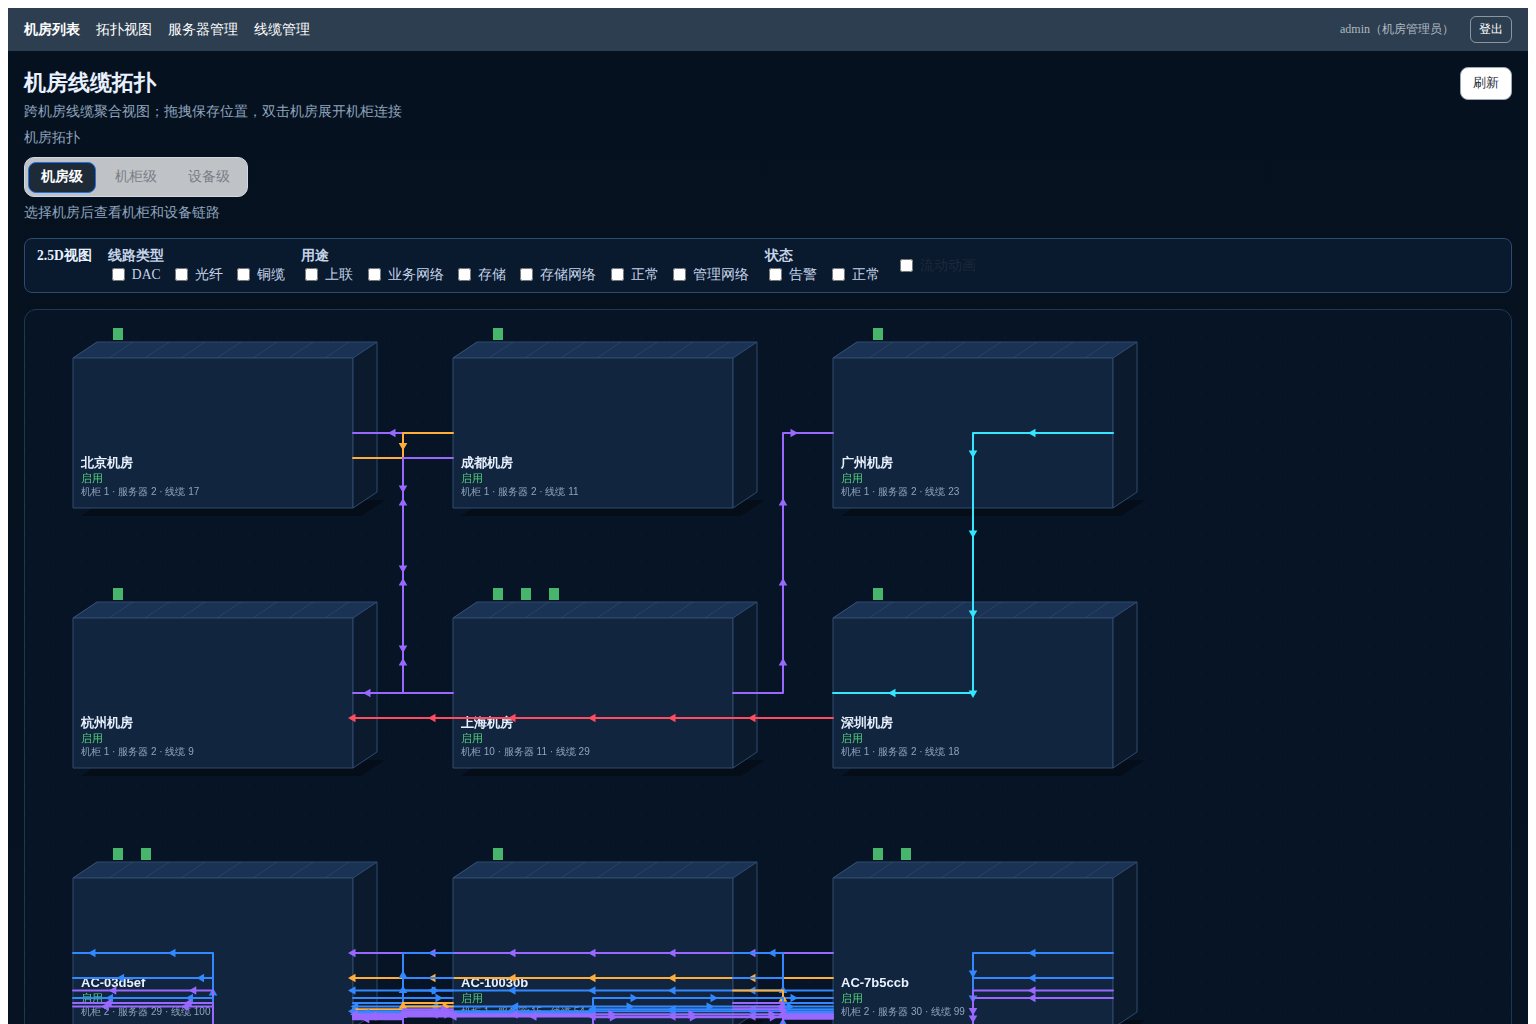
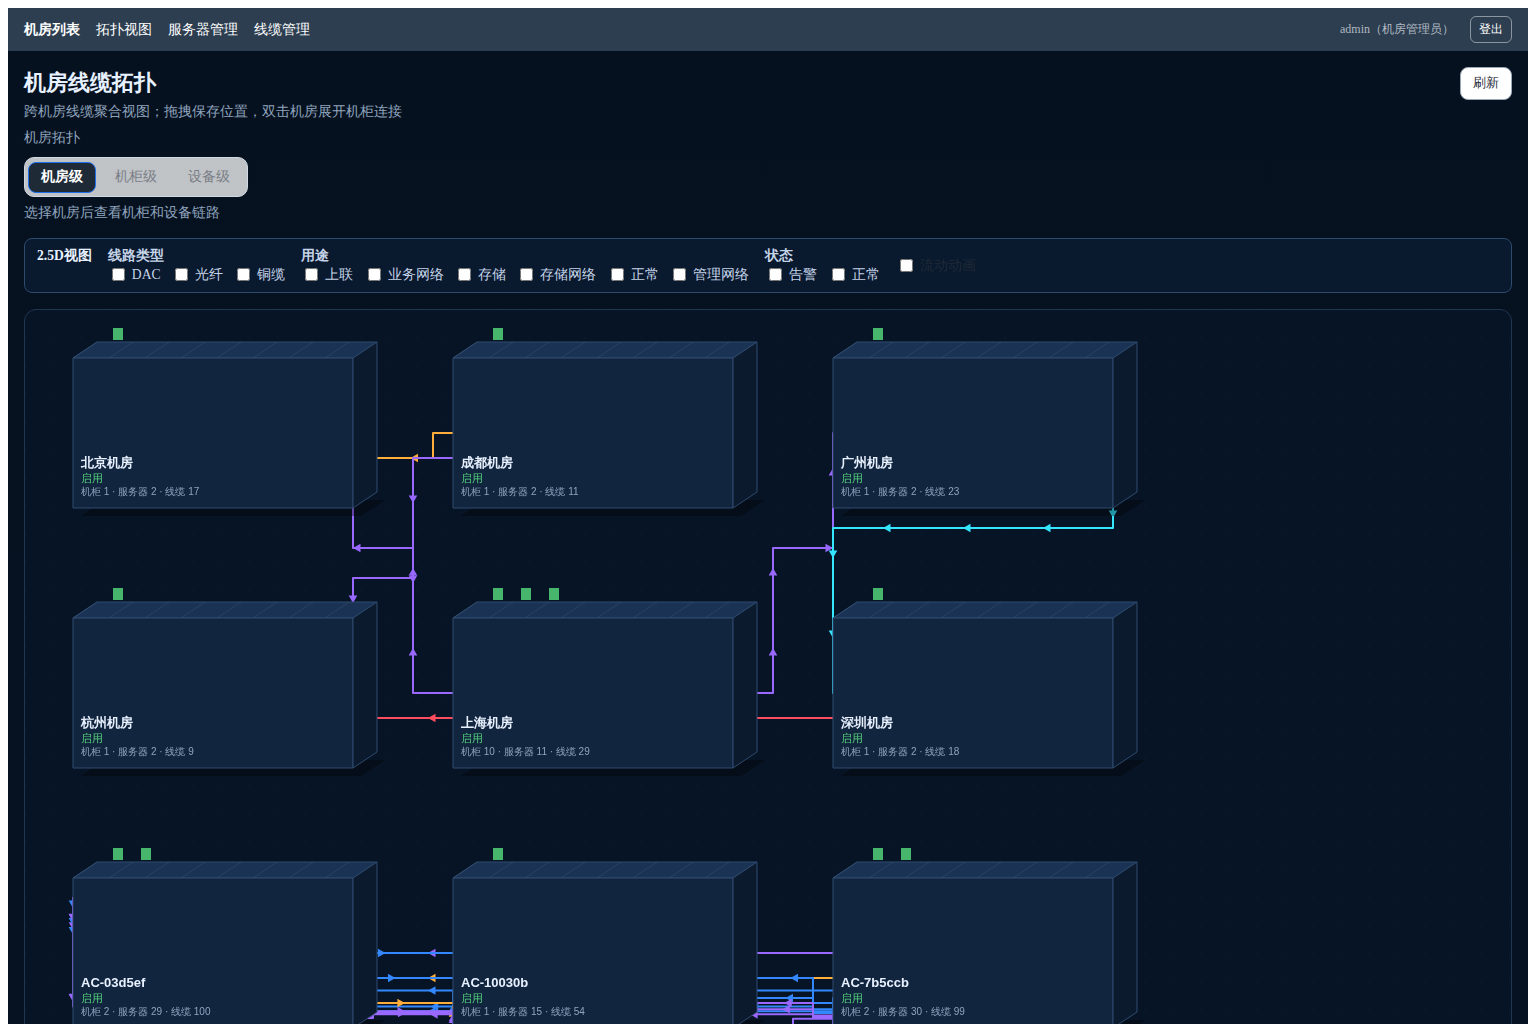
fix: cable routing through gaps between rooms — corridor-based routing
- routeRoomCable now takes srcPos/tgtPos to compute corridor positions
- Cables route through gaps between rooms (not over room bodies)
- Horizontal neighbors: route through vertical gap between columns
- Vertical neighbors: route through horizontal gap between rows
- Diagonal: route through nearest corridor then cross
- Draw order: cables behind rooms (visible only in gaps)

diff --git a/src/frontend/src/views/TopologyView.vue b/src/frontend/src/views/TopologyView.vue
@@ -1556,52 +1556,10 @@ function drawScene(): void {
   if (current.mode === 'rooms') {
     const positions = autoLayoutRooms(current.rooms)
 
-    // 1. Draw rooms FIRST (bottom layer)
-    for (const room of current.rooms) {
-      const pos = positions.get(room.id) ?? { x: room.topologyX, y: room.topologyY }
-      const selected = focusedRoomId.value === room.id
-      const group = new Konva.Group({
-        x: pos.x,
-        y: pos.y,
-        draggable: isRoomAdmin.value,
-        id: `room-${room.id}`,
-      })
-
-      drawRoomPlatform(group, room, selected)
-
-      group.on('click', () => {
-        focusedRoomId.value = room.id
-        router.replace({ query: { ...route.query, roomId: room.id, view: 'rooms' } })
-        drawScene()
-      })
-      group.on('dragend', async () => {
-        const nextX = group.x()
-        const nextY = group.y()
-        room.topologyX = nextX
-        room.topologyY = nextY
-        drawScene()
-        if (!isRoomAdmin.value) return
-        const token = await fetchCsrf()
-        if (!token) {
-          error.value = saveError.value || '保存失败'
-          return
-        }
-        const result = await saveRoomPosition(room, nextX, nextY, token)
-        if (!result.ok) {
-          error.value = result.error
-        }
-      })
-      group.on('dblclick', async () => {
-        focusedRoomId.value = room.id
-        await navigateToView(room.id, 'devices')
-      })
-      layer!.add(group)
-    }
-
-    // 2. Draw cables SECOND (on top of rooms)
     const edgeSlots = new Map<string, number>()
     const slotKey = (roomId: string, edge: string) => `${roomId}|${edge}`
 
+    // 1. Draw cables FIRST (bottom layer) — routed through gaps between rooms
     for (const connection of filteredRoomConnections.value) {
       const srcPos = positions.get(connection.sourceRoomId) ?? { x: 0, y: 0 }
       const tgtPos = positions.get(connection.targetRoomId) ?? { x: 0, y: 0 }
@@ -1616,7 +1574,7 @@ function drawScene(): void {
 
       const from = roomPlatformEdgePoint(srcPos, srcEdge as 'left' | 'right', srcSlot, srcSlot + 1)
       const to = roomPlatformEdgePoint(tgtPos, tgtEdge as 'left' | 'right', tgtSlot, tgtSlot + 1)
-      const route = routeRoomCable(from, to)
+      const route = routeRoomCable(from, to, srcPos, tgtPos)
       const flatPoints = route.flatMap((p) => [p.x, p.y])
       const bundleId = connectionBundleId(connection)
       const color = purposeLineColor(connection.purpose, connection.status, connection.cableType)
@@ -1680,6 +1638,48 @@ function drawScene(): void {
         document.body.style.cursor = 'default'
       })
       layer!.add(line)
+    }
+
+    // 2. Draw rooms SECOND (on top of cables — cables only visible in gaps)
+    for (const room of current.rooms) {
+      const pos = positions.get(room.id) ?? { x: room.topologyX, y: room.topologyY }
+      const selected = focusedRoomId.value === room.id
+      const group = new Konva.Group({
+        x: pos.x,
+        y: pos.y,
+        draggable: isRoomAdmin.value,
+        id: `room-${room.id}`,
+      })
+
+      drawRoomPlatform(group, room, selected)
+
+      group.on('click', () => {
+        focusedRoomId.value = room.id
+        router.replace({ query: { ...route.query, roomId: room.id, view: 'rooms' } })
+        drawScene()
+      })
+      group.on('dragend', async () => {
+        const nextX = group.x()
+        const nextY = group.y()
+        room.topologyX = nextX
+        room.topologyY = nextY
+        drawScene()
+        if (!isRoomAdmin.value) return
+        const token = await fetchCsrf()
+        if (!token) {
+          error.value = saveError.value || '保存失败'
+          return
+        }
+        const result = await saveRoomPosition(room, nextX, nextY, token)
+        if (!result.ok) {
+          error.value = result.error
+        }
+      })
+      group.on('dblclick', async () => {
+        focusedRoomId.value = room.id
+        await navigateToView(room.id, 'devices')
+      })
+      layer!.add(group)
     }
 
     stage!.on('click', (event) => {

diff --git a/src/frontend/src/composables/useTopology.ts b/src/frontend/src/composables/useTopology.ts
@@ -360,10 +360,83 @@ export function roomPlatformEdgePoint(
   }
 }
 
-/** Orthogonal/bezier-friendly route between room platform edges. */
-export function routeRoomCable(from: Point2D, to: Point2D): Point2D[] {
-  const midX = (from.x + to.x) / 2
-  return [from, { x: midX, y: from.y }, { x: midX, y: to.y }, to]
+/**
+ * Route a cable between two room platform edge points through the corridor
+ * BETWEEN rooms, avoiding the room bodies. Routes travel in the gaps.
+ *
+ * @param from   Start point on source room edge
+ * @param to     End point on target room edge
+ * @param srcPos Top-left corner of source room platform
+ * @param tgtPos Top-left corner of target room platform
+ */
+export function routeRoomCable(
+  from: Point2D,
+  to: Point2D,
+  srcPos?: Point2D,
+  tgtPos?: Point2D,
+): Point2D[] {
+  if (!srcPos || !tgtPos) {
+    // Fallback: simple orthogonal route
+    const midX = (from.x + to.x) / 2
+    return [from, { x: midX, y: from.y }, { x: midX, y: to.y }, to]
+  }
+
+  const w = ROOM_PLATFORM_W
+  const h = ROOM_PLATFORM_H
+  const gap = 40 // corridor padding outside room edges
+
+  // Determine relative position
+  const srcRight = from.x >= srcPos.x + w / 2
+  const tgtRight = to.x >= tgtPos.x + w / 2
+  const sameRow = Math.abs(srcPos.y - tgtPos.y) < h
+  const sameCol = Math.abs(srcPos.x - tgtPos.x) < w
+
+  if (sameRow) {
+    // Horizontal neighbors — route through the vertical gap between them
+    const corridorX = srcRight
+      ? Math.min(srcPos.x + w, tgtPos.x) + gap / 2
+      : Math.max(srcPos.x, tgtPos.x + w) - gap / 2
+    const midY = (from.y + to.y) / 2
+    return [
+      from,
+      { x: corridorX, y: from.y },
+      { x: corridorX, y: midY },
+      { x: corridorX, y: to.y },
+      to,
+    ]
+  }
+
+  if (sameCol) {
+    // Vertical neighbors — route through the horizontal gap between them
+    const srcBelow = from.y >= srcPos.y + h / 2
+    const corridorY = srcBelow
+      ? Math.min(srcPos.y + h, tgtPos.y) + gap / 2
+      : Math.max(srcPos.y, tgtPos.y + h) - gap / 2
+    const midX = (from.x + to.x) / 2
+    return [
+      from,
+      { x: from.x, y: corridorY },
+      { x: midX, y: corridorY },
+      { x: to.x, y: corridorY },
+      to,
+    ]
+  }
+
+  // Diagonal: route through both horizontal and vertical corridors
+  const corridorX = srcRight
+    ? srcPos.x + w + gap
+    : srcPos.x - gap
+  const tgtCorridorY = tgtPos.y > srcPos.y
+    ? tgtPos.y - gap
+    : tgtPos.y + h + gap
+
+  return [
+    from,
+    { x: corridorX, y: from.y },
+    { x: corridorX, y: tgtCorridorY },
+    { x: to.x, y: tgtCorridorY },
+    to,
+  ]
 }
 
 export function filterRoomConnections(
